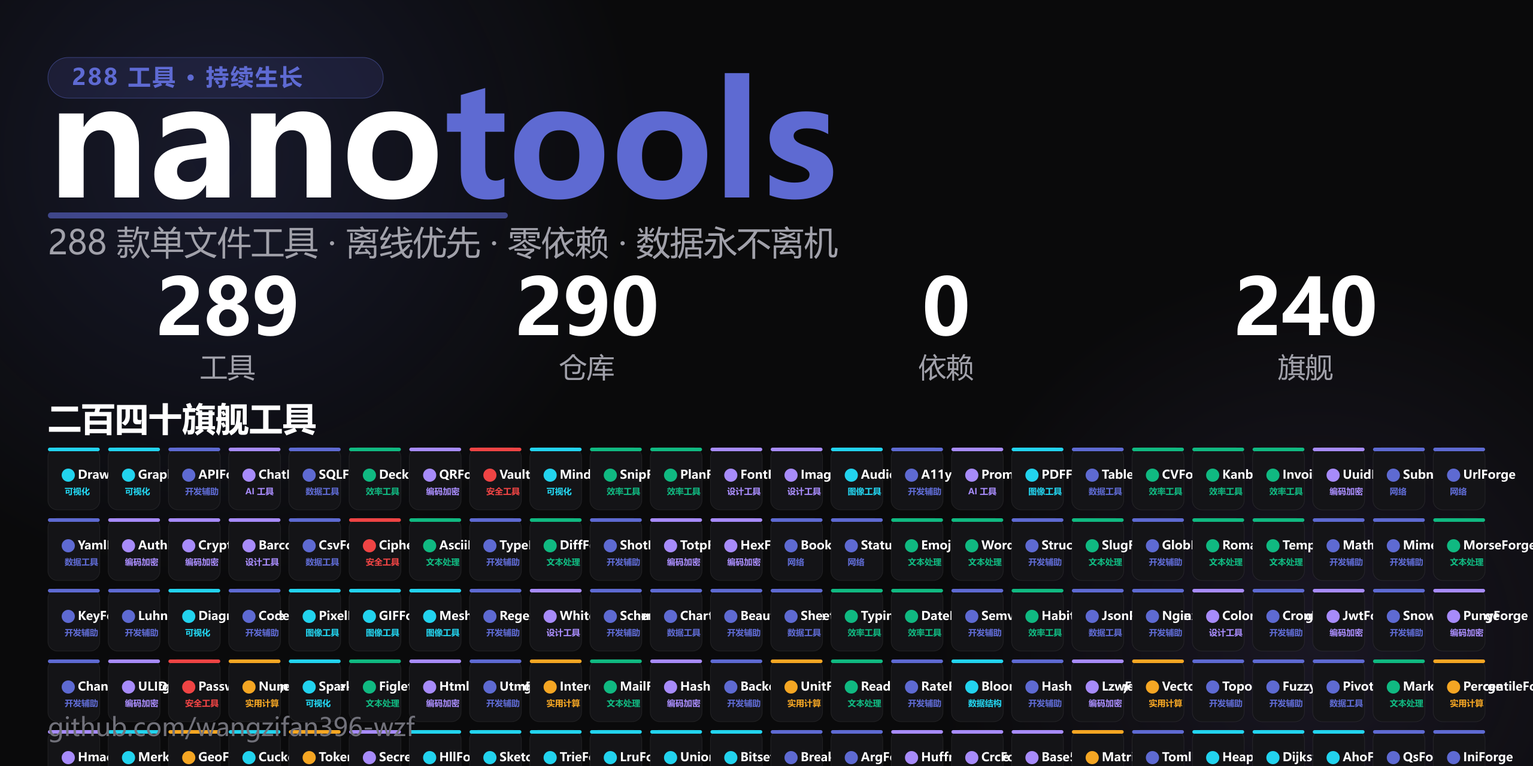
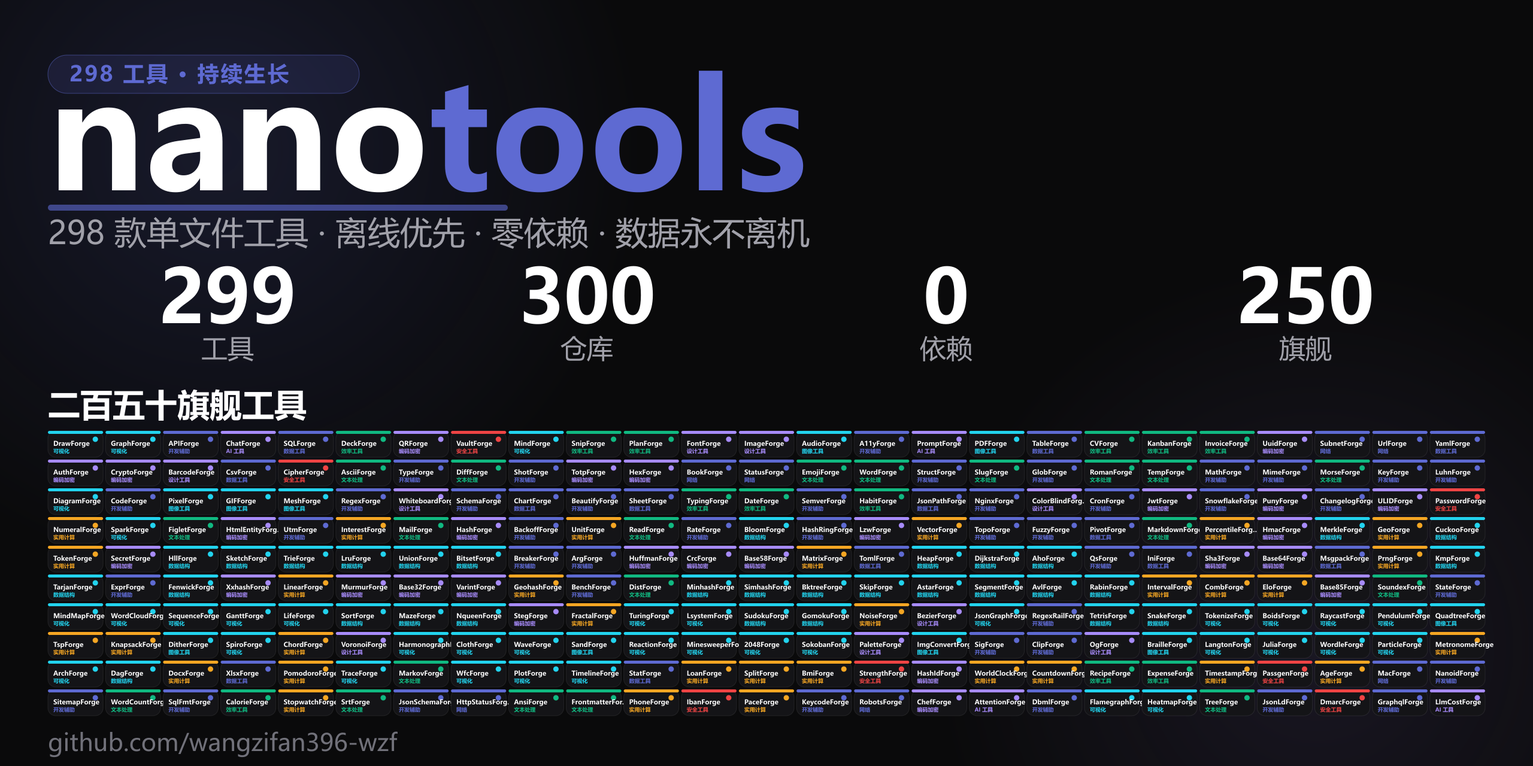
chore: batch42 wiring + promo (298 tools / 250 flagships)

diff --git a/index.html b/index.html
@@ -5,9 +5,9 @@
 <meta charset="UTF-8">
 <meta name="viewport" content="width=device-width, initial-scale=1.0">
 <title data-i18n="meta_title">nano-tools · 单文件零依赖工具集</title>
-<meta name="description" data-i18n="meta_desc" content="一个标签页，收纳你全部的开发者工具。288 个单文件、零依赖、本地优先的开源工具，下载即用，数据永不离机。">
+<meta name="description" data-i18n="meta_desc" content="一个标签页，收纳你全部的开发者工具。298 个单文件、零依赖、本地优先的开源工具，下载即用，数据永不离机。">
 <meta property="og:title" data-i18n="og_title" content="nano-tools · 单文件零依赖工具集">
-<meta property="og:description" data-i18n="og_desc" content="288 个单文件、零依赖、本地优先的开发者工具，下载即用，数据永不离机。">
+<meta property="og:description" data-i18n="og_desc" content="298 个单文件、零依赖、本地优先的开发者工具，下载即用，数据永不离机。">
 <meta property="og:image" content="social-preview.png">
 <meta property="og:image:width" content="1280">
 <meta property="og:image:height" content="640">
@@ -278,13 +278,13 @@
     <div class="hero-left">
       <span class="eyebrow"><span class="dot"></span><span data-i18n="hero_eyebrow">开源 · 零依赖 · 单文件</span></span>
       <h1 class="title" data-i18n-html="hero_title">一个标签页，<br>收纳你<span class="hl">全部的开发者工具</span></h1>
-      <p class="subtitle" data-i18n="hero_subtitle">288 个单文件、离线优先的开源工具，覆盖编码、转换、可视化与 AI。下载即用，数据永远留在你的浏览器里。</p>
+      <p class="subtitle" data-i18n="hero_subtitle">298 个单文件、离线优先的开源工具，覆盖编码、转换、可视化与 AI。下载即用，数据永远留在你的浏览器里。</p>
       <div class="hero-cta">
         <a class="btn primary" href="#tools" data-i18n="hero_browse">浏览工具 ↓</a>
         <a class="btn" href="https://github.com/wangzifan396-wzf" target="_blank" rel="noopener" data-i18n="hero_github">在 GitHub 查看</a>
       </div>
       <div class="hero-meta">
-        <span><b>290</b> <span data-i18n="meta_repos">开源仓库</span></span>
+        <span><b>300</b> <span data-i18n="meta_repos">开源仓库</span></span>
         <span><b>0</b> <span data-i18n="meta_deps">外部依赖</span></span>
         <span><b>100%</b> <span data-i18n="meta_local">本地运行</span></span>
       </div>
@@ -327,7 +327,7 @@
   <div class="wrap">
     <div class="sec-head reveal">
       <span class="label" data-i18n="tools_label">工具矩阵</span>
-      <h2 class="sec-title" data-i18n="tools_title">288 款精心打磨的开发者工具</h2>
+      <h2 class="sec-title" data-i18n="tools_title">298 款精心打磨的开发者工具</h2>
       <p class="sec-desc" data-i18n="tools_desc">搜索或按分类筛选，点击「在线试用」立即体验，或前往源码仓库查看实现。</p>
     </div>
     <div class="controls reveal">
@@ -385,7 +385,7 @@
 <div class="wrap">
   <div class="cta-band reveal" style="border-color:var(--acc);">
     <span class="pill ok" style="align-self:center;background:rgba(94,106,210,.16);color:#aab2f0;" data-i18n="wb_badge">★ 聚合工作台</span>
-    <h2 data-i18n="wb_title">一个标签页，收纳全部 288 款工具</h2>
+    <h2 data-i18n="wb_title">一个标签页，收纳全部 298 款工具</h2>
     <p data-i18n="wb_desc">nano-workbench：点选即在内嵌窗口运行、标签间即时切换，无需反复打开新页面。数据永不离机。</p>
     <div class="hero-cta">
       <a class="btn primary" href="https://wangzifan396-wzf.github.io/nano-workbench/" target="_blank" rel="noopener" data-i18n="wb_open">打开工作台 ↗</a>
@@ -397,7 +397,7 @@
 <div class="wrap">
   <div class="cta-band reveal">
     <h2 data-i18n="cta_title">把你下一个小工具，交给 nano-tools</h2>
-    <p data-i18n="cta_desc">290 个仓库、288 款工具，全部开源、零依赖、本地优先。</p>
+    <p data-i18n="cta_desc">300 个仓库、298 款工具，全部开源、零依赖、本地优先。</p>
     <div class="hero-cta">
       <a class="btn primary" href="#tools" data-i18n="cta_browse">开始浏览</a>
       <a class="btn" href="https://github.com/wangzifan396-wzf" target="_blank" rel="noopener">★ Star on GitHub</a>
@@ -425,16 +425,16 @@
   // 双语字典（中 / 英）。data-i18n 文本用 textContent；data-i18n-html 保留 <br>/<span> 结构；meta 改 content 属性。
   var I18N = {
     "meta_title":{zh:"nano-tools · 单文件零依赖工具集",en:"nano-tools · single-file, zero-dep tools"},
-    "meta_desc":{zh:"一个标签页，收纳你全部的开发者工具。288 个单文件、零依赖、本地优先的开源工具，下载即用，数据永不离机。",en:"One tab for all your dev tools. 288 single-file, zero-dep, local-first open-source tools. Download and use; data never leaves the browser."},
+    "meta_desc":{zh:"一个标签页，收纳你全部的开发者工具。298 个单文件、零依赖、本地优先的开源工具，下载即用，数据永不离机。",en:"One tab for all your dev tools. 298 single-file, zero-dep, local-first open-source tools. Download and use; data never leaves the browser."},
     "og_title":{zh:"nano-tools · 单文件零依赖工具集",en:"nano-tools · single-file, zero-dep tools"},
-    "og_desc":{zh:"288 个单文件、零依赖、本地优先的开发者工具，下载即用，数据永不离机。",en:"288 single-file, zero-dep, local-first dev tools. Download and use; data never leaves the browser."},
+    "og_desc":{zh:"298 个单文件、零依赖、本地优先的开发者工具，下载即用，数据永不离机。",en:"298 single-file, zero-dep, local-first dev tools. Download and use; data never leaves the browser."},
     "nav_features":{zh:"特性",en:"Features"},
     "nav_tools":{zh:"工具",en:"Tools"},
     "nav_stats":{zh:"数据",en:"Stats"},
     "nav_faq":{zh:"问答",en:"FAQ"},
     "hero_eyebrow":{zh:"开源 · 零依赖 · 单文件",en:"Open-source · Zero-dep · Single-file"},
     "hero_title":{zh:'一个标签页，<br>收纳你<span class="hl">全部的开发者工具</span>',en:'One tab, <br>for <span class="hl">all your dev tools</span>'},
-    "hero_subtitle":{zh:"288 个单文件、离线优先的开源工具，覆盖编码、转换、可视化与 AI。下载即用，数据永远留在你的浏览器里。",en:"288 single-file, offline-first open-source tools spanning encoding, conversion, visualization & AI. Download and use instantly; your data never leaves the browser."},
+    "hero_subtitle":{zh:"298 个单文件、离线优先的开源工具，覆盖编码、转换、可视化与 AI。下载即用，数据永远留在你的浏览器里。",en:"298 single-file, offline-first open-source tools spanning encoding, conversion, visualization & AI. Download and use instantly; your data never leaves the browser."},
     "hero_browse":{zh:"浏览工具 ↓",en:"Browse tools ↓"},
     "hero_github":{zh:"在 GitHub 查看",en:"View on GitHub"},
     "meta_repos":{zh:"开源仓库",en:"Open-source repos"},
@@ -450,16 +450,16 @@
     "step3_t":{zh:"单文件可携",en:"Portable single-file"},
     "step3_d":{zh:"每个工具只有一个 HTML 文件，零依赖、可随便复制分享，U 盘里也能跑。",en:"Each tool is one HTML file — zero dependencies, copy & share freely, runs from a USB stick."},
     "tools_label":{zh:"工具矩阵",en:"Tool matrix"},
-    "tools_title":{zh:"288 款精心打磨的开发者工具",en:"288 Hand-crafted Dev Tools"},
+    "tools_title":{zh:"298 款精心打磨的开发者工具",en:"298 Hand-crafted Dev Tools"},
     "tools_desc":{zh:"搜索或按分类筛选，点击「在线试用」立即体验，或前往源码仓库查看实现。",en:"Search or filter by category, hit “Live Demo” to try instantly, or visit the source repo."},
     "search_ph":{zh:"搜索工具… 试试 regex / json / 颜色 / 压缩 / 图表",en:"Search tools… try regex / json / color / compress / chart"},
     "btn_demo":{zh:"在线试用",en:"Live Demo"},
     "btn_src":{zh:"源码",en:"Source"},
     "no_result":{zh:"没有匹配的工具，换个关键词试试 🔍",en:"No matching tools — try another keyword 🔍"},
     "cta_title":{zh:"把你下一个小工具，交给 nano-tools",en:"Your next tiny tool, from nano-tools"},
-    "cta_desc":{zh:"290 个仓库、288 款工具，全部开源、零依赖、本地优先。",en:"290 repos, 288 tools. All open-source, zero-dep, local-first."},
+    "cta_desc":{zh:"300 个仓库、298 款工具，全部开源、零依赖、本地优先。",en:"300 repos, 298 tools. All open-source, zero-dep, local-first."},
     "wb_badge":{zh:"★ 聚合工作台",en:"★ Unified Workbench"},
-    "wb_title":{zh:"一个标签页，收纳全部 288 款工具",en:"All 288 tools in one tab"},
+    "wb_title":{zh:"一个标签页，收纳全部 298 款工具",en:"All 298 tools in one tab"},
     "wb_desc":{zh:"nano-workbench：点选即在内嵌窗口运行、标签间即时切换，无需反复打开新页面。数据永不离机。",en:"nano-workbench: pick a tool and run it in an embedded pane, switch tabs instantly — no more reopening pages. Data never leaves your machine."},
     "wb_open":{zh:"打开工作台 ↗",en:"Open Workbench ↗"},
     "wb_src":{zh:"查看源码",en:"View Source"},
@@ -989,6 +989,36 @@
     {id:"RobotsForge", name:"RobotsForge", icon:"robots", cat:"网络", badge:"旗舰",
      desc:"robots.txt 生成与抓取测试：按 UA 选组、最长匹配判定、通配符与 $ 锚点、语法体检，离线可用。",
      tags:["robots","seo","crawler","useragent","allow"]},
+    {id:"ChefForge", name:"ChefForge", icon:"chef", cat:"编码加密", badge:"旗舰",
+     desc:"链式编解码流水线：Base64/Hex/URL/ROT13/XOR 组合配方、逐步中间结果，离线可用。",
+     tags:["codec","base64","hex","url","rot13","xor","entropy","pipeline"]},
+    {id:"AttentionForge", name:"AttentionForge", icon:"attn", cat:"AI 工具", badge:"旗舰",
+     desc:"Transformer 注意力可视化：QK 缩放点积、softmax 权重热力矩阵、因果掩码，离线可用。",
+     tags:["attention","transformer","softmax","embedding","heatmap","ml"]},
+    {id:"DbmlForge", name:"DbmlForge", icon:"dbml", cat:"开发辅助", badge:"旗舰",
+     desc:"DBML 转 SQL DDL：双方言生成、外键推导、Mermaid ER 导出与 schema 体检，离线可用。",
+     tags:["dbml","sql","ddl","schema","er","postgres","mysql"]},
+    {id:"FlamegraphForge", name:"FlamegraphForge", icon:"flame", cat:"可视化", badge:"旗舰",
+     desc:"火焰图渲染器：折叠栈转 SVG、self 时间排行、最热调用路径，离线可用。",
+     tags:["flamegraph","profiling","svg","performance","stack"]},
+    {id:"HeatmapForge", name:"HeatmapForge", icon:"heatmap", cat:"可视化", badge:"旗舰",
+     desc:"日历活动热力图：GitHub 风格贡献格、分位配色、连续打卡统计，离线可用。",
+     tags:["heatmap","calendar","streak","contribution","svg","github"]},
+    {id:"TreeForge", name:"TreeForge", icon:"tree", cat:"文本处理", badge:"旗舰",
+     desc:"目录树生成器：缩进与路径列表转 tree 连线图，JSON/ASCII 互转，离线可用。",
+     tags:["tree","directory","filesystem","ascii","json","path"]},
+    {id:"JsonLdForge", name:"JsonLdForge", icon:"jsonld", cat:"开发辅助", badge:"旗舰",
+     desc:"JSON-LD 结构化数据校验：schema.org 字段体检、日期校验、嵌入片段生成，离线可用。",
+     tags:["jsonld","schema.org","seo","structured-data","validate","ld"]},
+    {id:"DmarcForge", name:"DmarcForge", icon:"dmarc", cat:"安全工具", badge:"旗舰",
+     desc:"DMARC 记录分析：标签解读、防护评分分级、语法体检与记录生成，离线可用。",
+     tags:["dmarc","email","security","spf","dkim","dns","audit"]},
+    {id:"GraphqlForge", name:"GraphqlForge", icon:"graphql", cat:"开发辅助", badge:"旗舰",
+     desc:"GraphQL 查询分析：变量片段体检、变量模板生成、复杂度评分，离线可用。",
+     tags:["graphql","query","lint","complexity","api","validate"]},
+    {id:"LlmCostForge", name:"LlmCostForge", icon:"llmcost", cat:"AI 工具", badge:"旗舰",
+     desc:"大模型调用成本测算：token 估算、10 款模型比价、缓存节省与窗口预警，离线可用。",
+     tags:["llm","cost","token","pricing","ai","budget"]},
     {id:"MetronomeForge", name:"MetronomeForge", icon:"mtm", cat:"实用计算", badge:"旗舰",
      desc:"节拍器：可调 BPM 与拍号，支持重音与前瞻调度内核，Tap 测速，辅助练习节奏，离线可用。",
      tags:["metronome","bpm","tempo","rhythm","music"]},
@@ -1619,6 +1649,16 @@
     PaceForge:{desc:"Running pace calculator: pace/time/speed three-way conversion, km split table, Riegel prediction 5K to marathon. Offline.", cat:"Utility"},
     KeycodeForge:{desc:"Keyboard event inspector: live key/code/keyCode capture, modifier combos & macOS notation, reverse lookup. Offline.", cat:"Dev"},
     RobotsForge:{desc:"robots.txt builder & crawl tester: UA group picking, longest-match verdict, wildcard & $ anchors, syntax lint. Offline.", cat:"Network"},
+    ChefForge:{desc:"Chained codec pipeline: combine Base64/Hex/URL/ROT13/XOR recipes, step-by-step intermediate results, live Shannon entropy. Offline.", cat:"Encoding"},
+    AttentionForge:{desc:"Transformer attention visualizer: scaled dot-product scores, softmax weight heatmap, causal mask, multi-head toggle, row entropy & Top-K. Offline.", cat:"AI"},
+    DbmlForge:{desc:"DBML to SQL DDL: PostgreSQL/MySQL dialects, foreign-key inference, Mermaid ER export, schema lint. Offline.", cat:"Dev"},
+    FlamegraphForge:{desc:"Flame graph renderer: folded stacks to SVG, self-time Top-5, hottest call path tracing. Offline.", cat:"Visual"},
+    HeatmapForge:{desc:"Calendar activity heatmap: GitHub-style contribution grid, quantile color scale, longest/current streak stats, SVG export. Offline.", cat:"Visual"},
+    TreeForge:{desc:"Directory tree generator: indent text or path list to tree diagram, Unicode/ASCII styles, JSON & path interchange. Offline.", cat:"Text"},
+    JsonLdForge:{desc:"JSON-LD structured-data validator: 8 schema.org templates, required/recommended field lint, ISO date check, embed snippet. Offline.", cat:"Dev"},
+    DmarcForge:{desc:"DMARC record analyzer: per-tag annotation, 0-100 protection score & A-F grade, syntax lint, compliant-record generator. Offline.", cat:"Security"},
+    GraphqlForge:{desc:"GraphQL query analyzer: bracket balance, variable & fragment lint, variable JSON template, depth & complexity score. Offline.", cat:"Dev"},
+    LlmCostForge:{desc:"LLM call cost estimator: 10-model comparison, cache savings, context-window warnings, CNY conversion. Offline.", cat:"AI"},
     MetronomeForge:{desc:"Metronome: tune BPM & time signature, accent & lookahead scheduler core, tap tempo, practice rhythm. Offline.", cat:"Utility"},
     PaletteForge:{desc:"Palette generator: hue-rotate complementary/triadic/analogous/mono schemes, WCAG contrast check, click to copy. Offline.", cat:"Design"},
     ChordForge:{desc:"Chord & scale: detect chords, build scales, note-name parsing + enharmonic.", cat:"Utility"},
@@ -1940,6 +1980,16 @@
     pace:'<circle cx="12" cy="13" r="7"/><path d="M12 13l3-3M9 3h6"/>',
     keyc:'<rect x="2" y="6" width="20" height="12" rx="2"/><path d="M6 10h.01M10 10h.01M14 10h.01M18 10h.01M8 14h8"/>',
     robots:'<rect x="4" y="8" width="16" height="11" rx="3"/><path d="M12 4v4M9 13h.01M15 13h.01M9 16h6"/>',
+    chef:'<path d="M6 20h12M7 16h10a4 4 0 0 0 .6-7.9A4.5 4.5 0 0 0 9 6.5 3.5 3.5 0 0 0 6.6 12 4 4 0 0 0 7 16z"/>',
+    attn:'<circle cx="6" cy="7" r="2"/><circle cx="6" cy="17" r="2"/><circle cx="18" cy="12" r="2"/><path d="M8 7l8 4M8 17l8-4"/>',
+    dbml:'<ellipse cx="12" cy="6" rx="8" ry="3"/><path d="M4 6v12c0 1.7 3.6 3 8 3s8-1.3 8-3V6M4 12c0 1.7 3.6 3 8 3s8-1.3 8-3"/>',
+    flame:'<path d="M12 3c1 3-2 4-2 7a4 4 0 0 0 8 0c0-1-.4-2-1-3 3 2 4 5 4 7a9 9 0 1 1-18 0c0-5 5-7 9-11z"/>',
+    heatmap:'<rect x="3" y="4" width="5" height="5" rx="1"/><rect x="10" y="4" width="5" height="5" rx="1"/><rect x="17" y="4" width="4" height="5" rx="1"/><rect x="3" y="11" width="5" height="5" rx="1"/><rect x="10" y="11" width="5" height="5" rx="1"/>',
+    tree:'<path d="M5 4v14a2 2 0 0 0 2 2h3M5 11h5"/><rect x="12" y="3" width="8" height="4" rx="1"/><rect x="12" y="9" width="8" height="4" rx="1"/><rect x="12" y="16" width="8" height="4" rx="1"/>',
+    jsonld:'<circle cx="12" cy="12" r="9"/><path d="M3 12h18M12 3a15 15 0 0 1 0 18 15 15 0 0 1 0-18"/>',
+    dmarc:'<path d="M12 3l8 3v6c0 4.5-3.2 7.9-8 9-4.8-1.1-8-4.5-8-9V6z"/><path d="M9 12l2 2 4-4"/>',
+    graphql:'<circle cx="12" cy="4" r="1.8"/><circle cx="4" cy="9" r="1.8"/><circle cx="20" cy="9" r="1.8"/><circle cx="7" cy="18" r="1.8"/><circle cx="17" cy="18" r="1.8"/><path d="M12 4L4 9l3 9h10l3-9z"/>',
+    llmcost:'<circle cx="12" cy="12" r="9"/><path d="M14.5 9a3 3 0 0 0-5 2c0 2.5 5 1.5 5 4a3 3 0 0 1-5 2M12 6v2M12 16v2"/>',
   };
   function iconSvg(k){ return '<svg viewBox="0 0 24 24" fill="none" stroke="currentColor" stroke-width="1.8" stroke-linecap="round" stroke-linejoin="round">'+(ICONS[k]||"")+'</svg>'; }
 
@@ -1949,7 +1999,7 @@
   var $ = function(s,el){return (el||document).querySelector(s);};
   var state = {q:"", cat:"全部", flag:false, fav:false};
   var LANG = (function(){ try{return localStorage.getItem("nano-lang")||"zh";}catch(e){return "zh";} })();
-  var FLAG_IDS = {"DrawForge":1,"GraphForge":1,"APIForge":1,"ChatForge":1,"SQLForge":1,"DeckForge":1,"QRForge":1,"VaultForge":1,"MindForge":1,"SnipForge":1,"PlanForge":1,"FontForge":1,"ImageForge":1,"AudioForge":1,"A11yForge":1,"PromptForge":1,"PDFForge":1,"TableForge":1,"CVForge":1,"KanbanForge":1,"InvoiceForge":1,"UuidForge":1,"SubnetForge":1,"UrlForge":1,"YamlForge":1,"AuthForge":1,"CryptoForge":1,"BarcodeForge":1,"CsvForge":1,"CipherForge":1,"AsciiForge":1,"TypeForge":1,"DiffForge":1,"ShotForge":1,"TotpForge":1,"HexForge":1,"BookForge":1,"StatusForge":1,"EmojiForge":1,"WordForge":1,"StructForge":1,"SlugForge":1,"GlobForge":1,"RomanForge":1,"TempForge":1,"MathForge":1,"MimeForge":1,"MorseForge":1,"KeyForge":1,"LuhnForge":1,"DiagramForge":1,"CodeForge":1,"PixelForge":1,"GIFForge":1,"MeshForge":1,"RegexForge":1,"WhiteboardForge":1,"SchemaForge":1,"ChartForge":1,"BeautifyForge":1,"SheetForge":1,"TypingForge":1,"DateForge":1,"SemverForge":1,"HabitForge":1,"JsonPathForge":1,"NginxForge":1,"ColorBlindForge":1,"CronForge":1,"JwtForge":1,"SnowflakeForge":1,"PunyForge":1,"ChangelogForge":1,"ULIDForge":1,"PasswordForge":1,"NumeralForge":1,"SparkForge":1,"FigletForge":1,"HtmlEntityForge":1,"UtmForge":1,"InterestForge":1,"MailForge":1,"HashForge":1,"BackoffForge":1,"UnitForge":1,"ReadForge":1,"RateForge":1,"BloomForge":1,"HashRingForge":1,"LzwForge":1,"VectorForge":1,"TopoForge":1,"FuzzyForge":1,"PivotForge":1,"MarkdownForge":1,"PercentileForge":1,"HmacForge":1,"MerkleForge":1,"GeoForge":1,"CuckooForge":1,"TokenForge":1,"SecretForge":1,"HllForge":1,"SketchForge":1,"TrieForge":1,"LruForge":1,"UnionForge":1,"BitsetForge":1,"BreakerForge":1,"ArgForge":1,"HuffmanForge":1,"CrcForge":1,"Base58Forge":1,"MatrixForge":1,"TomlForge":1,"HeapForge":1,"DijkstraForge":1,"AhoForge":1,"QsForge":1,"IniForge":1,"Sha3Forge":1,"Base64Forge":1,"MsgpackForge":1,"PrngForge":1,"KmpForge":1,"TarjanForge":1,"ExprForge":1,"FenwickForge":1,"XxhashForge":1,"LinearForge":1,"MurmurForge":1,"Base32Forge":1,"VarintForge":1,"GeohashForge":1,"BenchForge":1,"DistForge":1,"MinhashForge":1,"SimhashForge":1,"BktreeForge":1,"SkipForge":1,"AstarForge":1,"SegmentForge":1,"AvlForge":1,"RabinForge":1,"IntervalForge":1,"CombForge":1,"EloForge":1,"Base85Forge":1,"SoundexForge":1,"StateForge":1,"MindMapForge":1,"WordCloudForge":1,"SequenceForge":1,"GanttForge":1,"LifeForge":1,"SortForge":1,"MazeForge":1,"NqueenForge":1,"StegForge":1,"FractalForge":1,"TuringForge":1,"LsystemForge":1,"SudokuForge":1,"GomokuForge":1,"NoiseForge":1,"BezierForge":1,"JsonGraphForge":1,"RegexRailForge":1,"TetrisForge":1,"SnakeForge":1,"TokenizeForge":1,"BoidsForge":1,"RaycastForge":1,"PendulumForge":1,"QuadtreeForge":1,"TspForge":1,"KnapsackForge":1,"DitherForge":1,"SpiroForge":1,"ChordForge":1,"VoronoiForge":1,"HarmonographForge":1,"ClothForge":1,"WaveForge":1,"SandForge":1,"ReactionForge":1,"MinesweeperForge":1,"2048Forge":1,"SokobanForge":1,"PaletteForge":1,"ImgConvertForge":1,"SigForge":1,"ClipForge":1,"OgForge":1,"BrailleForge":1,"LangtonForge":1,"JuliaForge":1,"WordleForge":1,"ParticleForge":1,"MetronomeForge":1,"ArchForge":1,"DagForge":1,"DocxForge":1,"XlsxForge":1,"PomodoroForge":1,"TraceForge":1,"MarkovForge":1,"WfcForge":1,"PlotForge":1,"TimelineForge":1,"StatForge":1,"LoanForge":1,"SplitForge":1,"BmiForge":1,"StrengthForge":1,"HashIdForge":1,"WorldClockForge":1,"CountdownForge":1,"RecipeForge":1,"ExpenseForge":1,"TimestampForge":1,"PassgenForge":1,"AgeForge":1,"MacForge":1,"NanoidForge":1,"SitemapForge":1,"WordCountForge":1,"SqlFmtForge":1,"CalorieForge":1,"StopwatchForge":1,"SrtForge":1,"JsonSchemaForge":1,"HttpStatusForge":1,"AnsiForge":1,"FrontmatterForge":1,"PhoneForge":1,"IbanForge":1,"PaceForge":1,"KeycodeForge":1,"RobotsForge":1};
+  var FLAG_IDS = {"DrawForge":1,"GraphForge":1,"APIForge":1,"ChatForge":1,"SQLForge":1,"DeckForge":1,"QRForge":1,"VaultForge":1,"MindForge":1,"SnipForge":1,"PlanForge":1,"FontForge":1,"ImageForge":1,"AudioForge":1,"A11yForge":1,"PromptForge":1,"PDFForge":1,"TableForge":1,"CVForge":1,"KanbanForge":1,"InvoiceForge":1,"UuidForge":1,"SubnetForge":1,"UrlForge":1,"YamlForge":1,"AuthForge":1,"CryptoForge":1,"BarcodeForge":1,"CsvForge":1,"CipherForge":1,"AsciiForge":1,"TypeForge":1,"DiffForge":1,"ShotForge":1,"TotpForge":1,"HexForge":1,"BookForge":1,"StatusForge":1,"EmojiForge":1,"WordForge":1,"StructForge":1,"SlugForge":1,"GlobForge":1,"RomanForge":1,"TempForge":1,"MathForge":1,"MimeForge":1,"MorseForge":1,"KeyForge":1,"LuhnForge":1,"DiagramForge":1,"CodeForge":1,"PixelForge":1,"GIFForge":1,"MeshForge":1,"RegexForge":1,"WhiteboardForge":1,"SchemaForge":1,"ChartForge":1,"BeautifyForge":1,"SheetForge":1,"TypingForge":1,"DateForge":1,"SemverForge":1,"HabitForge":1,"JsonPathForge":1,"NginxForge":1,"ColorBlindForge":1,"CronForge":1,"JwtForge":1,"SnowflakeForge":1,"PunyForge":1,"ChangelogForge":1,"ULIDForge":1,"PasswordForge":1,"NumeralForge":1,"SparkForge":1,"FigletForge":1,"HtmlEntityForge":1,"UtmForge":1,"InterestForge":1,"MailForge":1,"HashForge":1,"BackoffForge":1,"UnitForge":1,"ReadForge":1,"RateForge":1,"BloomForge":1,"HashRingForge":1,"LzwForge":1,"VectorForge":1,"TopoForge":1,"FuzzyForge":1,"PivotForge":1,"MarkdownForge":1,"PercentileForge":1,"HmacForge":1,"MerkleForge":1,"GeoForge":1,"CuckooForge":1,"TokenForge":1,"SecretForge":1,"HllForge":1,"SketchForge":1,"TrieForge":1,"LruForge":1,"UnionForge":1,"BitsetForge":1,"BreakerForge":1,"ArgForge":1,"HuffmanForge":1,"CrcForge":1,"Base58Forge":1,"MatrixForge":1,"TomlForge":1,"HeapForge":1,"DijkstraForge":1,"AhoForge":1,"QsForge":1,"IniForge":1,"Sha3Forge":1,"Base64Forge":1,"MsgpackForge":1,"PrngForge":1,"KmpForge":1,"TarjanForge":1,"ExprForge":1,"FenwickForge":1,"XxhashForge":1,"LinearForge":1,"MurmurForge":1,"Base32Forge":1,"VarintForge":1,"GeohashForge":1,"BenchForge":1,"DistForge":1,"MinhashForge":1,"SimhashForge":1,"BktreeForge":1,"SkipForge":1,"AstarForge":1,"SegmentForge":1,"AvlForge":1,"RabinForge":1,"IntervalForge":1,"CombForge":1,"EloForge":1,"Base85Forge":1,"SoundexForge":1,"StateForge":1,"MindMapForge":1,"WordCloudForge":1,"SequenceForge":1,"GanttForge":1,"LifeForge":1,"SortForge":1,"MazeForge":1,"NqueenForge":1,"StegForge":1,"FractalForge":1,"TuringForge":1,"LsystemForge":1,"SudokuForge":1,"GomokuForge":1,"NoiseForge":1,"BezierForge":1,"JsonGraphForge":1,"RegexRailForge":1,"TetrisForge":1,"SnakeForge":1,"TokenizeForge":1,"BoidsForge":1,"RaycastForge":1,"PendulumForge":1,"QuadtreeForge":1,"TspForge":1,"KnapsackForge":1,"DitherForge":1,"SpiroForge":1,"ChordForge":1,"VoronoiForge":1,"HarmonographForge":1,"ClothForge":1,"WaveForge":1,"SandForge":1,"ReactionForge":1,"MinesweeperForge":1,"2048Forge":1,"SokobanForge":1,"PaletteForge":1,"ImgConvertForge":1,"SigForge":1,"ClipForge":1,"OgForge":1,"BrailleForge":1,"LangtonForge":1,"JuliaForge":1,"WordleForge":1,"ParticleForge":1,"MetronomeForge":1,"ArchForge":1,"DagForge":1,"DocxForge":1,"XlsxForge":1,"PomodoroForge":1,"TraceForge":1,"MarkovForge":1,"WfcForge":1,"PlotForge":1,"TimelineForge":1,"StatForge":1,"LoanForge":1,"SplitForge":1,"BmiForge":1,"StrengthForge":1,"HashIdForge":1,"WorldClockForge":1,"CountdownForge":1,"RecipeForge":1,"ExpenseForge":1,"TimestampForge":1,"PassgenForge":1,"AgeForge":1,"MacForge":1,"NanoidForge":1,"SitemapForge":1,"WordCountForge":1,"SqlFmtForge":1,"CalorieForge":1,"StopwatchForge":1,"SrtForge":1,"JsonSchemaForge":1,"HttpStatusForge":1,"AnsiForge":1,"FrontmatterForge":1,"PhoneForge":1,"IbanForge":1,"PaceForge":1,"KeycodeForge":1,"RobotsForge":1,"ChefForge":1,"AttentionForge":1,"DbmlForge":1,"FlamegraphForge":1,"HeatmapForge":1,"TreeForge":1,"JsonLdForge":1,"DmarcForge":1,"GraphqlForge":1,"LlmCostForge":1};
   var FAV_KEY = "nano-favs";
   function getFavs(){ try{return JSON.parse(localStorage.getItem(FAV_KEY)||"[]");}catch(e){return [];} }
   function setFav(id,on){ var s=getFavs(); var i=s.indexOf(id); if(on&&i<0)s.push(id); if(!on&&i>=0)s.splice(i,1); try{localStorage.setItem(FAV_KEY,JSON.stringify(s));}catch(e){} }

diff --git a/README.md b/README.md
@@ -3,7 +3,7 @@
   <img src="https://img.shields.io/github/forks/wangzifan396-wzf/WB?style=flat-square" alt="Forks">
   <img src="https://img.shields.io/github/issues/wangzifan396-wzf/WB?style=flat-square" alt="Issues">
   <img src="https://img.shields.io/github/last-commit/wangzifan396-wzf/WB?style=flat-square" alt="Last Commit">
-  <img src="https://img.shields.io/badge/tools-278-5E6AD2?style=flat-square" alt="278 Tools">
+  <img src="https://img.shields.io/badge/tools-298-5E6AD2?style=flat-square" alt="298 Tools">
   <img src="https://img.shields.io/badge/dependencies-zero-2EA043?style=flat-square" alt="Zero Dep">
   <img src="https://img.shields.io/github/license/wangzifan396-wzf/WB?style=flat-square" alt="License">
 </p>
@@ -16,7 +16,7 @@
 
 # nano-tools · 单文件工具集门户
 
-**278 款单文件、零依赖、本地优先的开发者工具**的总入口（280 个仓库 · 230 款旗舰 ⭐）。每个工具都是一个 `index.html`——无需安装、无需构建、无需联网，下载即用，数据永远留在你的浏览器里。
+**298 款单文件、零依赖、本地优先的开发者工具**的总入口（300 个仓库 · 250 款旗舰 ⭐）。每个工具都是一个 `index.html`——无需安装、无需构建、无需联网，下载即用，数据永远留在你的浏览器里。
 
 ## 为什么是 nano-tools
 
@@ -25,7 +25,7 @@
 - **本地优先**：所有计算在你的浏览器内完成，数据永不上传。
 - **独立仓库**：每个工具一个仓库，可单独 fork / star / 魔改，互不牵连。
 
-## 🧰 工具矩阵（278 款 · ⭐ = 旗舰）
+## 🧰 工具矩阵（298 款 · ⭐ = 旗舰）
 
 | 工具 | 分类 | 简介 |
 |------|------|------|
@@ -34,7 +34,7 @@
 | [DiffLens](https://wangzifan396-wzf.github.io/DiffLens/) | 文本处理 | 基于 LCS 的文本 / JSON 差异对比，并排与内联双视图，JSON 规范化后按结构比对。 |
 | [ContextLens](https://wangzifan396-wzf.github.io/ContextLens/) | AI 工具 | LLM 上下文与成本可视化器：token 估算、多模型价格对比、上下文窗口占用分析。 |
 | [BoxKit](https://wangzifan396-wzf.github.io/BoxKit/) | 开发辅助 | 19 合 1 离线开发者工具箱：JSON/YAML、Base64、哈希、时间戳、正则、颜色等一站搞定。 |
-| [Inkwell](https://wangzifan396-wzf.github.io/Inkwell/) | 效率笔记 | 本地优先 Markdown 知识库：双向链接、力导向关系图、实时预览，数据全存本地。 |
+| [Inkwell](https://wangzifan396-wzf.github.io/Inkwell/) | 效率工具 | 本地优先 Markdown 知识库：双向链接、力导向关系图、实时预览，数据全存本地。 |
 | [Graphite](https://wangzifan396-wzf.github.io/Graphite/) | 可视化 | SVG 可视化节点编辑器：拖拽连线、自动布局，导出 SVG / PNG / JSON / Markdown。 |
 | [Chartify](https://wangzifan396-wzf.github.io/Chartify/) | 可视化 | CSV / JSON 秒变 SVG 图表：柱状、折线、饼图，可导出矢量图，纯前端渲染。 |
 | [UniConvert](https://wangzifan396-wzf.github.io/UniConvert/) | 实用计算 | 12 类万能单位换算：长度、重量、温度、数据、时间、货币格式等，实时联动。 |
@@ -44,7 +44,7 @@
 | [JsonForge](https://wangzifan396-wzf.github.io/JsonForge/) | 文本处理 | JSON 工作台：格式化 / 压缩 / 校验、转 TypeScript 类型、JSONPath 查询、树形浏览。 |
 | [RESTKit](https://wangzifan396-wzf.github.io/RESTKit/) | 开发辅助 | 离线 REST 客户端：请求构建、查询参数 / 头 / Body、Bearer/Basic 鉴权、响应计时与历史记录。 |
 | [DataForge](https://wangzifan396-wzf.github.io/DataForge/) | 文本处理 | JSON / CSV / TOML 三格式互转：嵌套表、数组表、标量数组均保留，实时转换、一键交换。 |
-| [MarkForge](https://wangzifan396-wzf.github.io/MarkForge/) | 效率笔记 | Markdown 实时编辑器：边写边预览、快捷工具栏、导出独立 HTML、中英文字数统计。 |
+| [MarkForge](https://wangzifan396-wzf.github.io/MarkForge/) | 效率工具 | Markdown 实时编辑器：边写边预览、快捷工具栏、导出独立 HTML、中英文字数统计。 |
 | [MockForge](https://wangzifan396-wzf.github.io/MockForge/) | 开发辅助 | 假数据 / Mock 生成器：14 种字段类型、可复现种子，一键导出 JSON / CSV / SQL。 |
 | [CSSKit](https://wangzifan396-wzf.github.io/CSSKit/) | 设计工具 | CSS 游乐场：渐变、box-shadow、cubic-bezier 缓动曲线、Flex 布局，实时预览可复制。 |
 | [SVGForge](https://wangzifan396-wzf.github.io/SVGForge/) | 图像工具 | SVG 压缩优化器：去元数据、精简小数、实时预览体积对比，转 Data URI / CSS background。 |
@@ -186,6 +186,26 @@
 | [SqlFmtForge](https://wangzifan396-wzf.github.io/SqlFmtForge/) ⭐ | 开发辅助 | SQL 格式化：关键字大写、主要子句换行、保留字符串字面量，离线可用。 |
 | [CalorieForge](https://wangzifan396-wzf.github.io/CalorieForge/) ⭐ | 效率工具 | 卡路里与营养记账：记录饮食热量与蛋白 / 碳水 / 脂肪，本机保存，离线可用。 |
 | [StopwatchForge](https://wangzifan396-wzf.github.io/StopwatchForge/) ⭐ | 实用计算 | 秒表与计圈计时：毫秒精度、暂停 / 继续、圈速最佳最差统计，离线可用。 |
+| [SrtForge](https://wangzifan396-wzf.github.io/SrtForge/) ⭐ | 文本处理 | 字幕工具：SRT 与 WebVTT 互转、时间轴平移与速率缩放、重叠检测与统计，离线可用。 |
+| [JsonSchemaForge](https://wangzifan396-wzf.github.io/JsonSchemaForge/) ⭐ | 开发辅助 | JSON Schema 校验器：type / required / enum / pattern 与数值数组约束，错误精确到路径，可从数据反推 Schema，离线可用。 |
+| [HttpStatusForge](https://wangzifan396-wzf.github.io/HttpStatusForge/) ⭐ | 网络 | HTTP 状态码速查：五大分类语义说明、可重试与可缓存判定、关键词检索，离线可用。 |
+| [AnsiForge](https://wangzifan396-wzf.github.io/AnsiForge/) ⭐ | 文本处理 | ANSI 终端着色：转义序列渲染为彩色 HTML、一键去色还原纯文本、SGR 序列统计，离线可用。 |
+| [FrontmatterForge](https://wangzifan396-wzf.github.io/FrontmatterForge/) ⭐ | 文本处理 | Markdown Front-matter 体检：YAML 子集解析、必填字段校验、重复键与 SEO 长度提醒、规范化回写，离线可用。 |
+| [PhoneForge](https://wangzifan396-wzf.github.io/PhoneForge/) ⭐ | 实用计算 | 国际电话号码解析：20 国国家码识别、E.164 规范化、位数与号段校验、脱敏展示，离线可用。 |
+| [IbanForge](https://wangzifan396-wzf.github.io/IbanForge/) ⭐ | 安全工具 | IBAN 与银行卡校验：mod-97 校验位推算、41 国长度表、四位分组格式化、Luhn 校验，离线可用。 |
+| [PaceForge](https://wangzifan396-wzf.github.io/PaceForge/) ⭐ | 实用计算 | 跑步配速计算：配速 / 用时 / 速度三向互算、公里分段表、Riegel 公式预测 5K 到全马，离线可用。 |
+| [KeycodeForge](https://wangzifan396-wzf.github.io/KeycodeForge/) ⭐ | 开发辅助 | 键盘事件查看器：实时捕获 key / code / keyCode、组合键与 macOS 记法、按码反查，离线可用。 |
+| [RobotsForge](https://wangzifan396-wzf.github.io/RobotsForge/) ⭐ | 网络 | robots.txt 生成与抓取测试：按 UA 选组、最长匹配判定、通配符与 $ 锚点、语法体检，离线可用。 |
+| [ChefForge](https://wangzifan396-wzf.github.io/ChefForge/) ⭐ | 编码加密 | 链式编解码流水线：Base64/Hex/URL/ROT13/XOR 组合配方、逐步中间结果，离线可用。 |
+| [AttentionForge](https://wangzifan396-wzf.github.io/AttentionForge/) ⭐ | AI 工具 | Transformer 注意力可视化：QK 缩放点积、softmax 权重热力矩阵、因果掩码，离线可用。 |
+| [DbmlForge](https://wangzifan396-wzf.github.io/DbmlForge/) ⭐ | 开发辅助 | DBML 转 SQL DDL：双方言生成、外键推导、Mermaid ER 导出与 schema 体检，离线可用。 |
+| [FlamegraphForge](https://wangzifan396-wzf.github.io/FlamegraphForge/) ⭐ | 可视化 | 火焰图渲染器：折叠栈转 SVG、self 时间排行、最热调用路径，离线可用。 |
+| [HeatmapForge](https://wangzifan396-wzf.github.io/HeatmapForge/) ⭐ | 可视化 | 日历活动热力图：GitHub 风格贡献格、分位配色、连续打卡统计，离线可用。 |
+| [TreeForge](https://wangzifan396-wzf.github.io/TreeForge/) ⭐ | 文本处理 | 目录树生成器：缩进与路径列表转 tree 连线图，JSON/ASCII 互转，离线可用。 |
+| [JsonLdForge](https://wangzifan396-wzf.github.io/JsonLdForge/) ⭐ | 开发辅助 | JSON-LD 结构化数据校验：schema.org 字段体检、日期校验、嵌入片段生成，离线可用。 |
+| [DmarcForge](https://wangzifan396-wzf.github.io/DmarcForge/) ⭐ | 安全工具 | DMARC 记录分析：标签解读、防护评分分级、语法体检与记录生成，离线可用。 |
+| [GraphqlForge](https://wangzifan396-wzf.github.io/GraphqlForge/) ⭐ | 开发辅助 | GraphQL 查询分析：变量片段体检、变量模板生成、复杂度评分，离线可用。 |
+| [LlmCostForge](https://wangzifan396-wzf.github.io/LlmCostForge/) ⭐ | AI 工具 | 大模型调用成本测算：token 估算、10 款模型比价、缓存节省与窗口预警，离线可用。 |
 | [MetronomeForge](https://wangzifan396-wzf.github.io/MetronomeForge/) ⭐ | 实用计算 | 节拍器：可调 BPM 与拍号，支持重音与前瞻调度内核，Tap 测速，辅助练习节奏，离线可用。 |
 | [PaletteForge](https://wangzifan396-wzf.github.io/PaletteForge/) ⭐ | 设计工具 | 配色生成器：色相旋转派生互补/三角/邻近/单色方案，WCAG 对比度校验，点选即复制，离线可用。 |
 | [ChordForge](https://wangzifan396-wzf.github.io/ChordForge/) ⭐ | 实用计算 | 和弦与音阶：和弦识别、音阶构建、音名解析与异名同音归一。 |
@@ -216,25 +236,25 @@
 | [DrawForge](https://wangzifan396-wzf.github.io/DrawForge/) ⭐ | 可视化 | 离线白板：手绘风画笔、矩形、椭圆、箭头、文本，自由平移缩放，一键导出 PNG/SVG，自动本地保存。 |
 | [GraphForge](https://wangzifan396-wzf.github.io/GraphForge/) ⭐ | 可视化 | 离线 Mermaid 图表编辑器：写 DSL 实时预览，一键导出 SVG/PNG，零依赖、数据永不离机。 |
 | [APIForge](https://wangzifan396-wzf.github.io/APIForge/) ⭐ | 开发辅助 | 离线 REST / GraphQL 客户端：请求构建、Bearer/Basic 鉴权、响应计时与体积、历史记录，零依赖。 |
-| [ChatForge](https://wangzifan396-wzf.github.io/ChatForge/) ⭐ | AI 效率 | 本地优先 BYOK AI 对话：自带密钥直连 OpenAI/Anthropic/OpenRouter，流式输出，密钥永不离机。 |
-| [FlowForge](https://wangzifan396-wzf.github.io/FlowForge/) | 任务管理 | 本地优先离线看板：多看板、拖拽排序、标签/优先级/截止、清单子任务，数据留在浏览器。 |
+| [ChatForge](https://wangzifan396-wzf.github.io/ChatForge/) ⭐ | AI 工具 | 本地优先 BYOK AI 对话：自带密钥直连 OpenAI/Anthropic/OpenRouter，流式输出，密钥永不离机。 |
+| [FlowForge](https://wangzifan396-wzf.github.io/FlowForge/) | 效率工具 | 本地优先离线看板：多看板、拖拽排序、标签/优先级/截止、清单子任务，数据留在浏览器。 |
 | [FormForge](https://wangzifan396-wzf.github.io/FormForge/) | 效率工具 | 本地优先离线表单构建器：拖拽式字段、实时预览，一键导出独立 HTML 或 JSON Schema。 |
 | [FocusForge](https://wangzifan396-wzf.github.io/FocusForge/) | 效率工具 | 本地优先的专注与计时工具箱：番茄钟、倒计时、秒表、世界时钟，数据留在浏览器。 |
 | [NanoBox](https://wangzifan396-wzf.github.io/NanoBox/) | 聚合器 | 单文件工具中枢：模糊搜索全部 nano-tools，内联安全表达式计算器，一键在 iframe 中打开。本地优先、零依赖。 |
 | [SQLForge](https://wangzifan396-wzf.github.io/SQLForge/) ⭐ | 数据工具 | 离线 SQL 数据库客户端：基于 SQLite(WASM) 运行真实 SQL，导入 CSV/JSON 建表，结果导出 CSV/JSON，零依赖、数据永不离机。 |
 | [DeckForge](https://wangzifan396-wzf.github.io/DeckForge/) ⭐ | 效率工具 | Markdown 一键变幻灯片：实时预览、键盘翻页、全屏演示、打印导出 PDF。离线、零依赖。 |
-| [QRForge](https://wangzifan396-wzf.github.io/QRForge/) ⭐ | 编码工具 | 纯前端二维码生成器：文本/网址/WiFi/名片，可调容错与配色，导出 SVG 与 PNG。真离线、零依赖。 |
+| [QRForge](https://wangzifan396-wzf.github.io/QRForge/) ⭐ | 编码加密 | 纯前端二维码生成器：文本/网址/WiFi/名片，可调容错与配色，导出 SVG 与 PNG。真离线、零依赖。 |
 | [VaultForge](https://wangzifan396-wzf.github.io/VaultForge/) ⭐ | 安全工具 | 本地优先的零知识加密密码库：AES-GCM + PBKDF2，登录/卡片/笔记/身份全加密，数据永不出端。 |
 | [MindForge](https://wangzifan396-wzf.github.io/MindForge/) ⭐ | 可视化 | 本地优先思维导图编辑器：结构化节点树、自动布局、分支配色，导出 PNG/SVG/JSON，离线可用。 |
-| [SnipForge](https://wangzifan396-wzf.github.io/SnipForge/) ⭐ | 效率 | 本地优先的代码片段管理器：分类、标签、全文搜索，一键复制，JSON 导入导出，离线可用。 |
-| [PlanForge](https://wangzifan396-wzf.github.io/PlanForge/) ⭐ | 效率 | 本地优先甘特图 / 路线图规划器：任务、依赖、里程碑、进度追踪，导出 PNG/SVG/JSON，离线可用。 |
+| [SnipForge](https://wangzifan396-wzf.github.io/SnipForge/) ⭐ | 效率工具 | 本地优先的代码片段管理器：分类、标签、全文搜索，一键复制，JSON 导入导出，离线可用。 |
+| [PlanForge](https://wangzifan396-wzf.github.io/PlanForge/) ⭐ | 效率工具 | 本地优先甘特图 / 路线图规划器：任务、依赖、里程碑、进度追踪，导出 PNG/SVG/JSON，离线可用。 |
 | [FontForge](https://wangzifan396-wzf.github.io/FontForge/) ⭐ | 设计工具 | 字体预览与排版样张工作台：拖入字体即时渲染，调节字号 / 行高 / 字距 / 字重，字形表与可移植样张导出，本地优先。 |
 | [ImageForge](https://wangzifan396-wzf.github.io/ImageForge/) ⭐ | 设计工具 | 离线图片编辑器：裁剪、缩放、旋转翻转、亮度 / 对比度 / 饱和度 / 色相 / 模糊调整、滤镜，导出 PNG/JPEG/WebP，零上传。 |
-| [AudioForge](https://wangzifan396-wzf.github.io/AudioForge/) ⭐ | 媒体工具 | 离线音频编辑器：加载音频、波形预览、裁剪、增益、淡入淡出、归一化、反转，导出 WAV，零上传。 |
-| [A11yForge](https://wangzifan396-wzf.github.io/A11yForge/) ⭐ | 开发工具 | 离线无障碍工具箱：WCAG 对比度检查、合规取色、色盲模拟、HTML/ARIA 审计，零上传。 |
+| [AudioForge](https://wangzifan396-wzf.github.io/AudioForge/) ⭐ | 图像工具 | 离线音频编辑器：加载音频、波形预览、裁剪、增益、淡入淡出、归一化、反转，导出 WAV，零上传。 |
+| [A11yForge](https://wangzifan396-wzf.github.io/A11yForge/) ⭐ | 开发辅助 | 离线无障碍工具箱：WCAG 对比度检查、合规取色、色盲模拟、HTML/ARIA 审计，零上传。 |
 | [JwtForge](https://wangzifan396-wzf.github.io/JwtForge/) ⭐ | 编码加密 | 离线 JWT / Token 解码器：拆分 header、payload、signature，可读化 exp/nbf/iat，不校验签名。 |
-| [PromptForge](https://wangzifan396-wzf.github.io/PromptForge/) ⭐ | AI 效率 | 本地优先 AI Prompt 工作台：变量模板、实时预览、BYOK 直连大模型、Token 与成本估算、本地历史，密钥永不离机。 |
-| [PDFForge](https://wangzifan396-wzf.github.io/PDFForge/) ⭐ | 图像与媒体 | 本地优先 PDF 工具箱：合并、拆分、旋转、重排、优化重存，文件永不上传。 |
+| [PromptForge](https://wangzifan396-wzf.github.io/PromptForge/) ⭐ | AI 工具 | 本地优先 AI Prompt 工作台：变量模板、实时预览、BYOK 直连大模型、Token 与成本估算、本地历史，密钥永不离机。 |
+| [PDFForge](https://wangzifan396-wzf.github.io/PDFForge/) ⭐ | 图像工具 | 本地优先 PDF 工具箱：合并、拆分、旋转、重排、优化重存，文件永不上传。 |
 | [TableForge](https://wangzifan396-wzf.github.io/TableForge/) ⭐ | 数据工具 | 离线表格工作台：粘贴 CSV/TSV/JSON 即解析，单元格编辑、增删行列、排序、筛选、分组聚合，导出 Markdown/HTML/JSON/CSV/TSV。 |
 | [CVForge](https://wangzifan396-wzf.github.io/CVForge/) ⭐ | 效率工具 | 离线简历 / CV 工作台：结构化表单 + 实时预览，三种模板，一键打印导出 PDF，JSON 导入导出，数据留本地。 |
 | [KanbanForge](https://wangzifan396-wzf.github.io/KanbanForge/) ⭐ | 效率工具 | 离线看板：多列拖拽卡片，优先级 / 标签 / 搜索筛选，导出 Markdown / JSON，数据永不离机。 |
@@ -244,49 +264,49 @@
 | [SubnetForge](https://wangzifan396-wzf.github.io/SubnetForge/) ⭐ | 网络 | 离线 IPv4/IPv6 CIDR 子网计算器：网络/广播地址、可用主机范围、子网拆分与归属判断，零上传。 |
 | [EnvForge](https://wangzifan396-wzf.github.io/EnvForge/) | 实用计算 | 离线 .env 解析 / 对比 / 校验器：变量引用展开、两份配置差异、必填项校验，纯本地。 |
 | [UrlForge](https://wangzifan396-wzf.github.io/UrlForge/) ⭐ | 网络 | 离线 URL 工具箱：解析、编码/解码、查询参数构建与排序、Slug 生成、规范化，零上传。 |
-| [CaseForge](https://wangzifan396-wzf.github.io/CaseForge/) | 文本 | 离线文本大小写转换与行工具：camelCase/snake_case/kebab-case 等、去重、排序、加前缀与行号。 |
+| [CaseForge](https://wangzifan396-wzf.github.io/CaseForge/) | 文本处理 | 离线文本大小写转换与行工具：camelCase/snake_case/kebab-case 等、去重、排序、加前缀与行号。 |
 | [YamlForge](https://wangzifan396-wzf.github.io/YamlForge/) ⭐ | 数据工具 | 离线 YAML ⇄ JSON 转换器：块级映射/序列、嵌套、类型推断、带引号标量，零上传。 |
 | [AuthForge](https://wangzifan396-wzf.github.io/AuthForge/) ⭐ | 编码加密 | 离线 TOTP 身份验证器：自写 SHA1/HMAC-SHA1/RFC6238，生成 2FA 动态验证码与密钥，数据永不离机。 |
 | [CryptoForge](https://wangzifan396-wzf.github.io/CryptoForge/) ⭐ | 编码加密 | 本地 AES-GCM 加密与解密：Web Crypto + PBKDF2 派生密钥、随机盐与 IV 打包，敏感数据不出本机。 |
-| [BarcodeForge](https://wangzifan396-wzf.github.io/BarcodeForge/) ⭐ | 设计创意 | 离线一维条码生成器：Code 128 / EAN-13 / UPC-A（含校验位），矢量 SVG 导出，零依赖。 |
+| [BarcodeForge](https://wangzifan396-wzf.github.io/BarcodeForge/) ⭐ | 设计工具 | 离线一维条码生成器：Code 128 / EAN-13 / UPC-A（含校验位），矢量 SVG 导出，零依赖。 |
 | [LicenseForge](https://wangzifan396-wzf.github.io/LicenseForge/) | 编码加密 | 离线开源许可证生成器：MIT/BSD-3-Clause/ISC/Apache-2.0/Unlicense 全文，填充年份与版权人。 |
 | [GitignoreForge](https://wangzifan396-wzf.github.io/GitignoreForge/) | 编码加密 | 离线 .gitignore 模板组合器：21 种语言/框架/编辑器模板多选合并，带注释头，一键下载。 |
-| [ExifForge](https://wangzifan396-wzf.github.io/ExifForge/) | 设计创意 | 离线图片 EXIF 元数据查看与清除：解析 JPEG APP1 / TIFF IFD，一键剥离拍摄隐私信息。 |
-| [LoremForge](https://wangzifan396-wzf.github.io/LoremForge/) | 文本 | 离线 Lorem ipsum 占位文本生成器：可复现种子、段落/句数可调、可选 Lorem 开头与纯词数模式。 |
+| [ExifForge](https://wangzifan396-wzf.github.io/ExifForge/) | 设计工具 | 离线图片 EXIF 元数据查看与清除：解析 JPEG APP1 / TIFF IFD，一键剥离拍摄隐私信息。 |
+| [LoremForge](https://wangzifan396-wzf.github.io/LoremForge/) | 文本处理 | 离线 Lorem ipsum 占位文本生成器：可复现种子、段落/句数可调、可选 Lorem 开头与纯词数模式。 |
 | [CsvForge](https://wangzifan396-wzf.github.io/CsvForge/) ⭐ | 数据工具 | 离线 CSV 工具箱：解析 / 转 JSON / 转置 / 概览，零上传。 |
-| [CipherForge](https://wangzifan396-wzf.github.io/CipherForge/) ⭐ | 安全 | 离线经典密码：凯撒 / 维吉尼亚 / ROT13 / Atbash，数据不出本机。 |
-| [AsciiForge](https://wangzifan396-wzf.github.io/AsciiForge/) ⭐ | 文本 | 离线 ASCII 艺术：A-Z 0-9 点阵横幅 / 文本框 / 黑客语转换。 |
-| [AvatarForge](https://wangzifan396-wzf.github.io/AvatarForge/) | 设计创意 | 离线身份图标：种子文本生成确定性 identicon（SVG），零上传。 |
-| [FaviconForge](https://wangzifan396-wzf.github.io/FaviconForge/) | 设计创意 | 离线 Favicon 生成：文字 / Emoji → SVG，自定义配色。 |
+| [CipherForge](https://wangzifan396-wzf.github.io/CipherForge/) ⭐ | 安全工具 | 离线经典密码：凯撒 / 维吉尼亚 / ROT13 / Atbash，数据不出本机。 |
+| [AsciiForge](https://wangzifan396-wzf.github.io/AsciiForge/) ⭐ | 文本处理 | 离线 ASCII 艺术：A-Z 0-9 点阵横幅 / 文本框 / 黑客语转换。 |
+| [AvatarForge](https://wangzifan396-wzf.github.io/AvatarForge/) | 设计工具 | 离线身份图标：种子文本生成确定性 identicon（SVG），零上传。 |
+| [FaviconForge](https://wangzifan396-wzf.github.io/FaviconForge/) | 设计工具 | 离线 Favicon 生成：文字 / Emoji → SVG，自定义配色。 |
 | [XmlForge](https://wangzifan396-wzf.github.io/XmlForge/) | 数据工具 | 离线 XML 工具：格式化缩进 / 结构校验（标签匹配闭合）。 |
-| [HtmlForge](https://wangzifan396-wzf.github.io/HtmlForge/) | 开发 | 离线 HTML 工具：压缩 / 格式化 / 转义反转义，零依赖。 |
+| [HtmlForge](https://wangzifan396-wzf.github.io/HtmlForge/) | 开发辅助 | 离线 HTML 工具：压缩 / 格式化 / 转义反转义，零依赖。 |
 | [TimerForge](https://wangzifan396-wzf.github.io/TimerForge/) | 实用计算 | 离线秒表 / 倒计时：精确到 0.1 秒，支持秒或 mm:ss 输入。 |
-| [TypeForge](https://wangzifan396-wzf.github.io/TypeForge/) ⭐ | 开发 | 离线 JSON → TypeScript 接口生成：嵌套对象展开、数组联合类型推断，零上传。 |
-| [GradientForge](https://wangzifan396-wzf.github.io/GradientForge/) | 设计创意 | 离线 CSS 渐变构建器：线性 / 径向 / 锥形，多色标实时预览，一键复制 CSS。 |
-| [LinesForge](https://wangzifan396-wzf.github.io/LinesForge/) | 文本 | 离线文本行工具箱：去重 / 排序 / 删空行 / 加行号 / 反转，实时统计。 |
+| [TypeForge](https://wangzifan396-wzf.github.io/TypeForge/) ⭐ | 开发辅助 | 离线 JSON → TypeScript 接口生成：嵌套对象展开、数组联合类型推断，零上传。 |
+| [GradientForge](https://wangzifan396-wzf.github.io/GradientForge/) | 设计工具 | 离线 CSS 渐变构建器：线性 / 径向 / 锥形，多色标实时预览，一键复制 CSS。 |
+| [LinesForge](https://wangzifan396-wzf.github.io/LinesForge/) | 文本处理 | 离线文本行工具箱：去重 / 排序 / 删空行 / 加行号 / 反转，实时统计。 |
 | [HttpForge](https://wangzifan396-wzf.github.io/HttpForge/) | 网络 | 离线 HTTP 速查：状态码（1xx-5xx 可搜索）/ 请求方法特性 / 常见 MIME 类型。 |
 | [UnicodeForge](https://wangzifan396-wzf.github.io/UnicodeForge/) | 编码加密 | 离线 Unicode 检查器：文本 ↔ \\uXXXX 转义、码点 U+、UTF-8 字节、HTML 实体互转。 |
 | [ChmodForge](https://wangzifan396-wzf.github.io/ChmodForge/) | 开发辅助 | 离线 UNIX 权限计算器：八进制 ↔ rwx 符号互转，支持 setuid/setgid/sticky。 |
 | [DockerForge](https://wangzifan396-wzf.github.io/DockerForge/) | 开发辅助 | 离线 docker run → docker-compose.yml 转换：支持 30+ 参数，YAML 安全转义。 |
 | [CurlForge](https://wangzifan396-wzf.github.io/CurlForge/) | 网络 | 离线 curl 命令生成器：method / headers / body / 认证可视化配置，粘贴即用。 |
-| [MetaForge](https://wangzifan396-wzf.github.io/MetaForge/) | 开发 | 离线 Meta 标签生成器：基础 + Open Graph + Twitter Card 全套，SEO 长度检查。 |
+| [MetaForge](https://wangzifan396-wzf.github.io/MetaForge/) | 开发辅助 | 离线 Meta 标签生成器：基础 + Open Graph + Twitter Card 全套，SEO 长度检查。 |
 | [UAForge](https://wangzifan396-wzf.github.io/UAForge/) | 网络 | 离线 User-Agent 解析器：浏览器 / 内核 / 系统 / 设备类型识别，含爬虫检测。 |
 | [DiffForge](https://wangzifan396-wzf.github.io/DiffForge/) ⭐ | 文本处理 | 离线文本差异对比：基于 LCS 的行级 diff + 并排视图，统计增删，内置逐字符 inline diff。 |
-| [ShotForge](https://wangzifan396-wzf.github.io/ShotForge/) ⭐ | 开发 | 离线代码截图生成器：轻量语法高亮 + 仿 macOS 窗口外观，一键复制 SVG / 导出 2x PNG。 |
+| [ShotForge](https://wangzifan396-wzf.github.io/ShotForge/) ⭐ | 开发辅助 | 离线代码截图生成器：轻量语法高亮 + 仿 macOS 窗口外观，一键复制 SVG / 导出 2x PNG。 |
 | [TotpForge](https://wangzifan396-wzf.github.io/TotpForge/) ⭐ | 编码加密 | 离线 TOTP 身份验证器：纯 JS HMAC-SHA1（RFC 4226/6238 验证），Base32/ASCII 密钥，实时倒计时。 |
 | [HexForge](https://wangzifan396-wzf.github.io/HexForge/) ⭐ | 编码加密 | 离线十六进制查看器：文本(UTF-8)/十六进制/本地文件 → xxd 格式 dump，数据不出本机。 |
 | [BookForge](https://wangzifan396-wzf.github.io/BookForge/) ⭐ | 网络 | 离线书签生成器：粘贴 JavaScript 一键生成可拖入书签栏的 javascript: 书签，支持反向解析与语法校验。 |
 | [StatusForge](https://wangzifan396-wzf.github.io/StatusForge/) ⭐ | 网络 | 离线 HTTP 状态码速查：覆盖 1xx–5xx 共 60+ 状态码，支持数字 / 关键词搜索与分类筛选。 |
-| [EmojiForge](https://wangzifan396-wzf.github.io/EmojiForge/) ⭐ | 文本 | 离线 emoji 速查：120+ 常用 emoji，按关键词或分组搜索，点击即复制并显示 Unicode 码位。 |
-| [WordForge](https://wangzifan396-wzf.github.io/WordForge/) ⭐ | 文本 | 离线文本统计：字符 / 词数 / 行数 / 句子 / 段落 / 阅读时长 + 高频英文词，中英文混排友好。 |
+| [EmojiForge](https://wangzifan396-wzf.github.io/EmojiForge/) ⭐ | 文本处理 | 离线 emoji 速查：120+ 常用 emoji，按关键词或分组搜索，点击即复制并显示 Unicode 码位。 |
+| [WordForge](https://wangzifan396-wzf.github.io/WordForge/) ⭐ | 文本处理 | 离线文本统计：字符 / 词数 / 行数 / 句子 / 段落 / 阅读时长 + 高频英文词，中英文混排友好。 |
 | [StructForge](https://wangzifan396-wzf.github.io/StructForge/) ⭐ | 开发辅助 | 离线结构生成：粘贴 JSON 一键转 TypeScript interface / Go struct / Python dataclass / JSON Schema，嵌套自动拆分。 |
-| [SlugForge](https://wangzifan396-wzf.github.io/SlugForge/) ⭐ | 文本 | 离线 URL Slug 生成：变音符折叠（é→e、ß→ss）、可配置分隔符 / 大小写 / 长度，支持批量。 |
+| [SlugForge](https://wangzifan396-wzf.github.io/SlugForge/) ⭐ | 文本处理 | 离线 URL Slug 生成：变音符折叠（é→e、ß→ss）、可配置分隔符 / 大小写 / 长度，支持批量。 |
 | [GlobForge](https://wangzifan396-wzf.github.io/GlobForge/) ⭐ | 开发辅助 | 离线 Glob 模式测试：支持 * / ** / ? / [abc] / {a,b}，对一批路径实时匹配并统计命中数。 |
-| [RomanForge](https://wangzifan396-wzf.github.io/RomanForge/) ⭐ | 文本 | 离线罗马数字：阿拉伯数字 ↔ 罗马数字互转，支持规范形校验，范围 1–3999。 |
-| [TempForge](https://wangzifan396-wzf.github.io/TempForge/) ⭐ | 文本 | 离线温度换算：摄氏度 / 华氏度 / 开尔文 / 兰氏度四标度互转，实时计算。 |
+| [RomanForge](https://wangzifan396-wzf.github.io/RomanForge/) ⭐ | 文本处理 | 离线罗马数字：阿拉伯数字 ↔ 罗马数字互转，支持规范形校验，范围 1–3999。 |
+| [TempForge](https://wangzifan396-wzf.github.io/TempForge/) ⭐ | 文本处理 | 离线温度换算：摄氏度 / 华氏度 / 开尔文 / 兰氏度四标度互转，实时计算。 |
 | [MathForge](https://wangzifan396-wzf.github.io/MathForge/) ⭐ | 开发辅助 | 离线数学表达式求值：安全无 eval，支持 + - * / ^ % 括号、函数与常量。 |
 | [MimeForge](https://wangzifan396-wzf.github.io/MimeForge/) ⭐ | 开发辅助 | 离线 MIME 类型查询：扩展名 ↔ MIME 双向，内置 ~70 条常用映射，可扩展。 |
-| [MorseForge](https://wangzifan396-wzf.github.io/MorseForge/) ⭐ | 文本 | 离线莫尔斯电码：文本 ↔ 电码互转，自动识别方向，内置完整速查表可点击输入。 |
+| [MorseForge](https://wangzifan396-wzf.github.io/MorseForge/) ⭐ | 文本处理 | 离线莫尔斯电码：文本 ↔ 电码互转，自动识别方向，内置完整速查表可点击输入。 |
 | [KeyForge](https://wangzifan396-wzf.github.io/KeyForge/) ⭐ | 开发辅助 | 离线键盘按键侦测：实时显示 key / code / keyCode / 修饰键组合，支持键码反查。 |
 | [LuhnForge](https://wangzifan396-wzf.github.io/LuhnForge/) ⭐ | 开发辅助 | 离线 Luhn 校验：银行卡号模 10 校验、卡组织识别（Visa/银联等）、校验位补全。 |
 | [DiagramForge](https://wangzifan396-wzf.github.io/DiagramForge/) ⭐ | 可视化 | 离线流程图编辑器：节点+连线结构化绘图，4 种形状、拖拽连线、撤销重做、自动布局，导出 SVG/JSON。 |
@@ -295,7 +315,7 @@
 | [GIFForge](https://wangzifan396-wzf.github.io/GIFForge/) ⭐ | 图像工具 | 离线 GIF 动画制作器：拖入图片或雪碧图切片成帧，拖拽排帧、逐帧延时、循环与抖动控制，纯 JS GIF89a 编码器（LZW+中位切分量化）本地导出。 |
 | [MeshForge](https://wangzifan396-wzf.github.io/MeshForge/) ⭐ | 图像工具 | 离线 3D 模型查看器：拖入 OBJ / STL（二进制/ASCII 自动识别），WebGL 轨道渲染，着色/线框/点云三模式，坐标轴+网格+AABB 自动取景，PNG 快照导出。 |
 | [RegexForge](https://wangzifan396-wzf.github.io/RegexForge/) ⭐ | 开发辅助 | 离线正则测试与可视化：实时匹配高亮、捕获组与命名组、铁路图结构、速查表，一键导出匹配 JSON。 |
-| [WhiteboardForge](https://wangzifan396-wzf.github.io/WhiteboardForge/) ⭐ | 设计创意 | 离线无限画布白板：矩形/椭圆/线/箭头/自由笔/文字/便签，平移缩放、撤销重做、本地自动保存，导出 PNG 与 SVG。 |
+| [WhiteboardForge](https://wangzifan396-wzf.github.io/WhiteboardForge/) ⭐ | 设计工具 | 离线无限画布白板：矩形/椭圆/线/箭头/自由笔/文字/便签，平移缩放、撤销重做、本地自动保存，导出 PNG 与 SVG。 |
 | [SchemaForge](https://wangzifan396-wzf.github.io/SchemaForge/) ⭐ | 开发辅助 | 离线数据库建模 / ER 图设计器：可视化建表、外键关联，导出 MySQL / PostgreSQL / SQLite 多方言 SQL DDL 与 Mermaid。 |
 | [ChartForge](https://wangzifan396-wzf.github.io/ChartForge/) ⭐ | 数据工具 | 离线数据图表生成器：粘贴 CSV / JSON / TSV，生成柱状 / 折线 / 饼 / 环形 / 散点 / 面积图，Canvas 渲染并导出 PNG 与 SVG。 |
 | [BeautifyForge](https://wangzifan396-wzf.github.io/BeautifyForge/) ⭐ | 开发辅助 | 离线代码美化与压缩：JavaScript / CSS / HTML / JSON 格式化与精简，字符串 / 注释 / 正则感知的 tokenizer，支持自动识别语言与实时字符统计。 |
@@ -318,7 +338,7 @@
 ## 质量保障
 
 - 每个工具都带 `_test.js`（纯函数断言）+ `smoke.js`（jsdom 冒烟），CI 全绿。
-- 全矩阵回归：`run_matrix_tests.py` 一键跑 278 工具测试。
+- 全矩阵回归：`run_matrix_tests.py` 一键跑 298 工具测试。
 
 ## License
 
